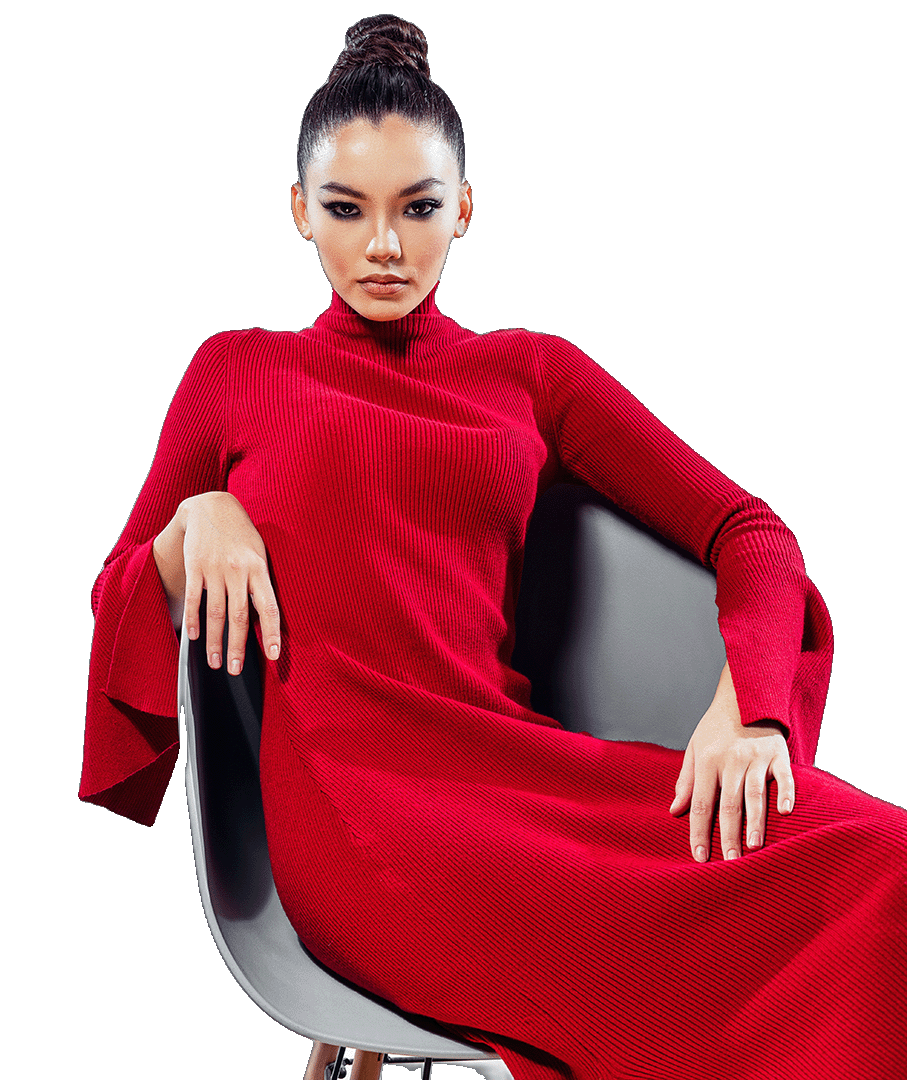
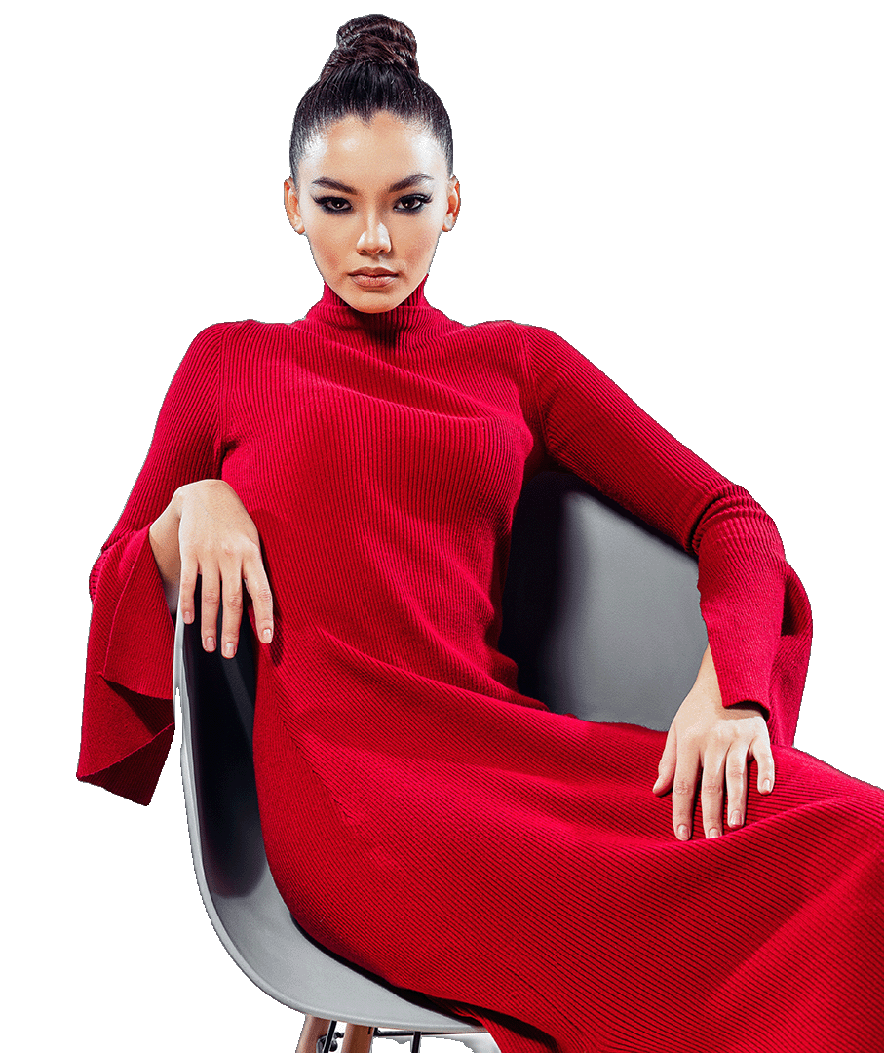
media queries & some img fixes

diff --git a/style.css b/style.css
@@ -23,10 +23,41 @@
   --primary-rgb: 196, 68, 68;
 }
 
-html {
-  font-size: 16px;
+@media screen and (max-width: 767px) {
+  body {
+    display: none;
+  }
 }
-
+@media screen and (min-width: 768px) and (max-width: 900px) {
+  html {
+    font-size: 6.25px;
+  }
+}
+@media screen and (min-width: 901px) and (max-width: 1024px) {
+  html {
+    font-size: 7.25px;
+  }
+}
+@media screen and (min-width: 1025px) and (max-width: 1200px) {
+  html {
+    font-size: 8.25px;
+  }
+}
+@media screen and (min-width: 1201px) and (max-width: 1366px) {
+  html {
+    font-size: 8.75px;
+  }
+}
+@media screen and (min-width: 1367px) and (max-width: 1440px) {
+  html {
+    font-size: 10px;
+  }
+}
+@media screen and (min-width: 1441px) and (max-width: 1600px) {
+  html {
+    font-size: 12px;
+  }
+}
 .flex {
   display: flex;
 }
@@ -224,7 +255,7 @@ body {
   pointer-events: none;
 }
 .product-wrapper .product-img .content img {
-  width: auto;
+  width: 55rem;
   height: auto;
   position: absolute;
   right: 0;

diff --git a/styles/_media-queries.scss b/styles/_media-queries.scss
@@ -1,0 +1,35 @@
+@media screen and (max-width: 767px) {
+  body {
+    display: none;
+  }
+}
+@media screen and (min-width: 768px) and (max-width: 900px) {
+  html {
+    font-size: 6.25px;
+  }
+}
+@media screen and (min-width: 901px) and (max-width: 1024px) {
+  html {
+    font-size: 7.25px;
+  }
+}
+@media screen and (min-width: 1025px) and (max-width: 1200px) {
+  html {
+    font-size: 8.25px;
+  }
+}
+@media screen and (min-width: 1201px) and (max-width: 1366px) {
+  html {
+    font-size: 8.75px;
+  }
+}
+@media screen and (min-width: 1367px) and (max-width: 1440px) {
+  html {
+    font-size: 10px;
+  }
+}
+@media screen and (min-width: 1441px) and (max-width: 1600px) {
+  html {
+    font-size: 12px;
+  }
+}

diff --git a/styles/_variables.scss b/styles/_variables.scss
@@ -7,10 +7,6 @@ $body-font-family: "Poppins", sans-serif;
 $container-width: 100%;
 $container-height: 100%;
 
-//icons
-$icon-size: 2.35rem;
-$icon-color: var(--primary);
-
 //product container
 $product-wrapper-width: 120rem;
 $product-wrapper-height: 67.5rem;
@@ -106,6 +102,9 @@ $tooltip-min-padding-x: 0.75rem;
 $tooltip-bg-color: var(--primary);
 $tooltip-arrow-size: 0.75rem;
 //===========================
+//icons
+$icon-size: 2.35rem;
+$icon-color: var(--primary);
 
 //transition
 $icon-transition-time: 0.2s;

diff --git a/styles/_main.scss b/styles/_main.scss
@@ -1,8 +1,5 @@
 @import url("https://fonts.googleapis.com/css2?family=Poppins:wght@100;200;300;400;500;600;700;800;900&display=swap");
-
-html {
-  font-size: 16px;
-}
+@import "media-queries";
 //common css
 .flex {
   display: flex;

diff --git a/styles/product-img/_content.scss b/styles/product-img/_content.scss
@@ -3,7 +3,7 @@
   inset: 0;
   pointer-events: none;
   & img {
-    width: auto;
+    width: 55rem;
     height: auto;
     position: absolute;
     right: 0;
